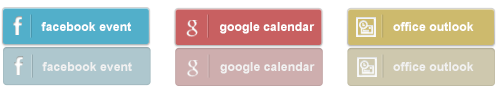
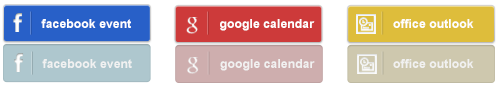
add quick event

diff --git a/common.css b/common.css
@@ -863,27 +863,27 @@
 }
 
 .create_event_export_socialfb{
-    background-position: -1px -47px;
+    background-position: -1px -44px
 }
 
 .create_event_export_socialfb_act{
-    background-position: -1px -7px;
+    background-position:-1px -5px;
 }
 
 .create_event_export_socialgg{
-    background-position: -175px -47px;
+    background-position: -175px -45px;
 }
 
 .create_event_export_socialgg_act{
-    background-position: -174px -8px;
+    background-position: -174px -5px;
 }
 
 .create_event_export_socialout{
-    background-position: -346px -47px;
+    background-position: -346px -45px;
 }
 
 .create_event_export_socialout_act{
-    background-position: -346px -7px;
+    background-position: -346px -5px;
 }
 
 

diff --git a/layout/layout_header_index.php b/layout/layout_header_index.php
@@ -34,7 +34,7 @@ if (!isset($timety_header)) {
 
 
 <!-- CSS -->
-<link href="<?= HOSTNAME ?>common.css?201302254279" rel="stylesheet">
+<link href="<?= HOSTNAME ?>common.css?201302254280" rel="stylesheet">
 <link  href="<?= HOSTNAME ?>resources/styles/slide.css" rel="stylesheet" type="text/css" />
 <link  href="<?= HOSTNAME ?>resources/styles/modalpanel.css" rel="stylesheet" type="text/css" />
 <link  href="<?= HOSTNAME ?>resources/styles/message.css" rel="stylesheet" type="text/css" />
